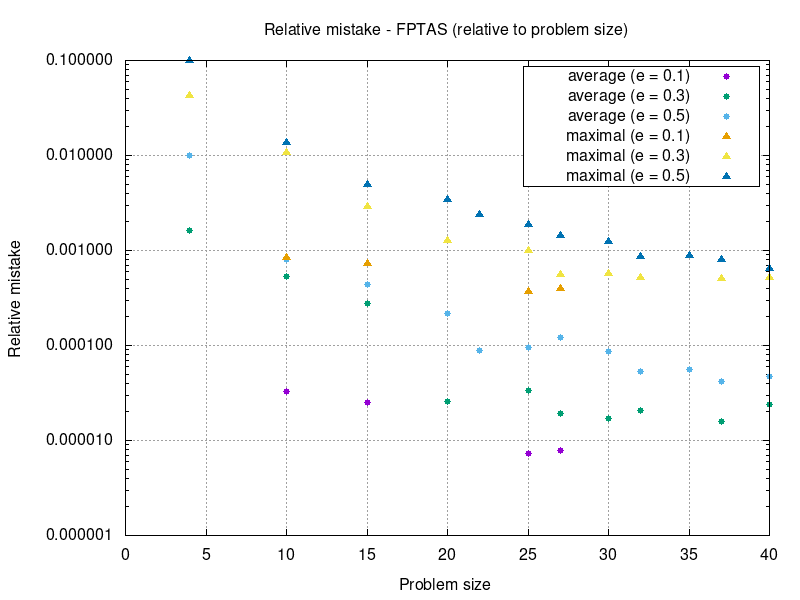
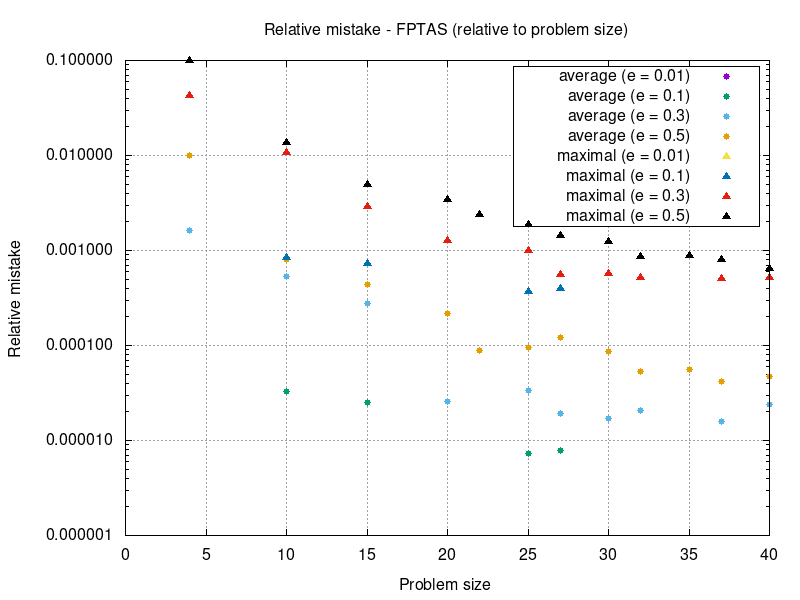
Improve plotting, add results, add plots

diff --git a/knapsack-problem/src/main.cc b/knapsack-problem/src/main.cc
@@ -31,7 +31,7 @@ int main(int argc, char * argv[]){
 
     std::cout << "problem_category (miss time max_miss max_time) "
               << " * (bruteforce branchbound heuristic"
-              << " dynamic_by_price fptas( 0.1, 0.2, ..., 1))"
+              << " dynamic_by_price fptas(0.1, 0.3, 0.5 0.01))"
               << std::endl;
 
     for (int i = 1; i < argc; i++) {
@@ -44,7 +44,7 @@ int main(int argc, char * argv[]){
         
         assert(tasks.size() == solutions.size());
 
-        RecordCollector collector(problem_category, 4 + 10);
+        RecordCollector collector(problem_category, 4 + 4 );
 
         for (uint j = 0; j < tasks.size(); j++) {
             std::vector<std::pair<int,double>> record;
@@ -63,8 +63,10 @@ int main(int argc, char * argv[]){
             
             record.emplace_back(tasks[j].time_dynamic_programming_by_price());
 
-            for (double i = 0.1; i <= 1; i += 0.1) 
-                record.emplace_back(tasks[j].time_fptas(i));
+            record.emplace_back(tasks[j].time_fptas(0.1));
+            record.emplace_back(tasks[j].time_fptas(0.3));
+            record.emplace_back(tasks[j].time_fptas(0.5));
+            record.emplace_back(tasks[j].time_fptas(0.01));
 
             collector.add_record(ref, record);
         }
